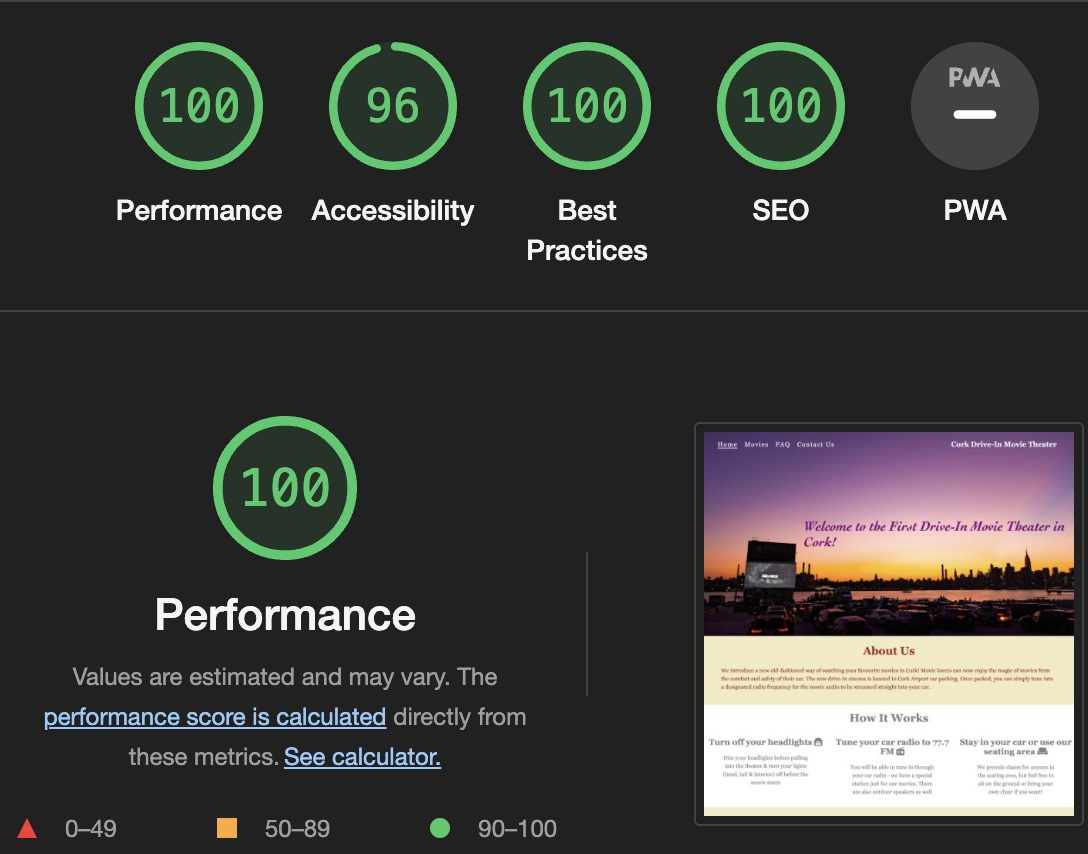
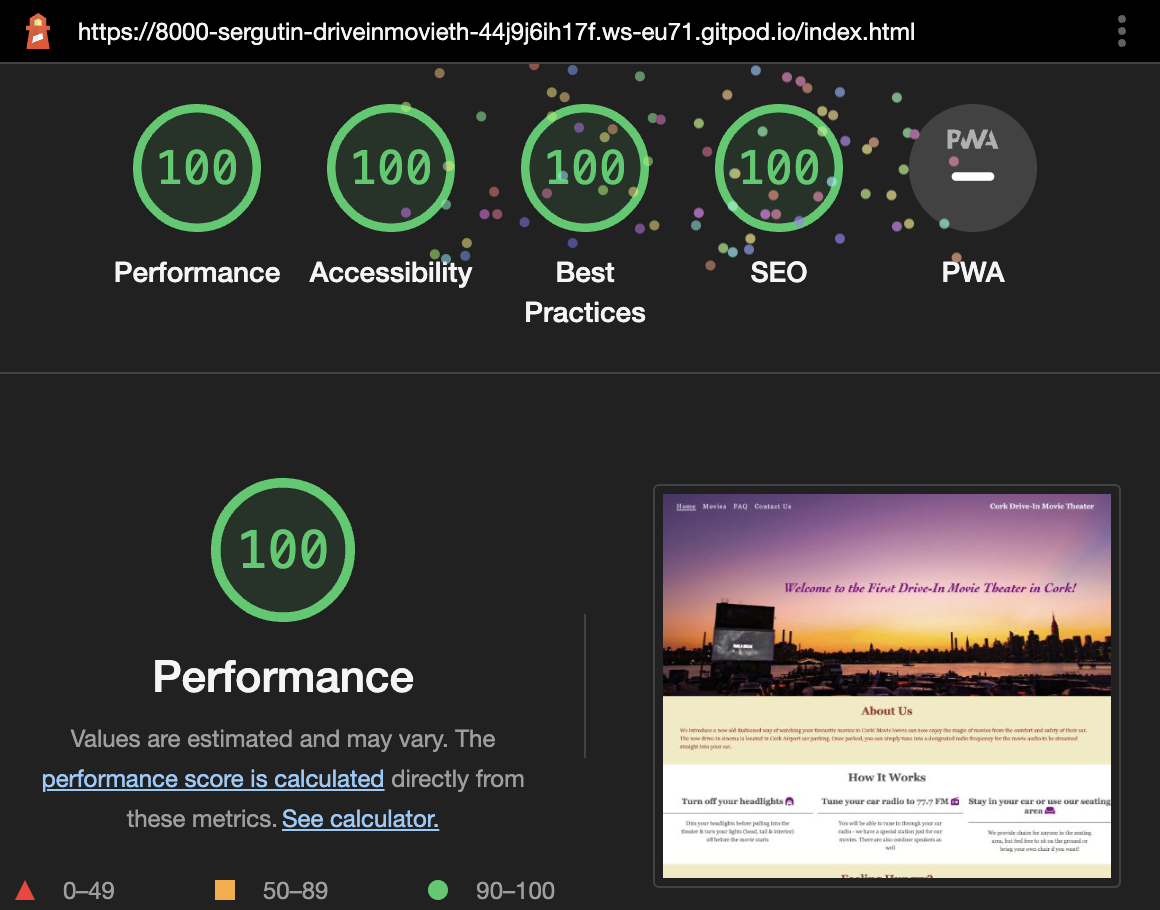
Change background movies faq contacts to improve contrast ratio

diff --git a/css/style.css b/css/style.css
@@ -53,7 +53,7 @@ p, h1 {
 #drive-in {
     height: 600px;
     width: 100%;
-    background: url('../css/images/drive-in.jpeg') no-repeat center center;
+    background: url('../css/images/drive-in.webp') no-repeat center center;
     background-size: cover;
 }
 
@@ -135,6 +135,7 @@ p, h1 {
     display: grid;
     grid-auto-flow: row;
     gap: 1em;
+    /* grid-template-columns: 25% 25% 25% 25%; */
 }
 
 @media (min-width: 50em) {
@@ -186,13 +187,13 @@ p, h1 {
 .faqbody {
     margin: 0 auto;
     margin-top: -20px !important;
-    background: url('../css/images/drive-in.jpeg');
+    background: url('../css/images/drive-in2.webp');
     background-size: cover;
-    background-color: rgba(255,255,255,0.4);
+    /* background-color: rgba(255,255,255,0.4); */
 }
 
 .moviesbody {
-    background: url('../css/images/drive-in.jpeg') no-repeat;
+    background: url('../css/images/drive-in2.webp') no-repeat;
     min-height: 100vh;
     background-size: cover;
     background-color: #d1d1d1;
@@ -200,7 +201,7 @@ p, h1 {
 }
 
 .contactsbody {
-    background: url('../css/images/drive-in.jpeg') no-repeat;
+    background: url('../css/images/drive-in2.webp') no-repeat;
     background-size: cover;
 }
 
@@ -223,7 +224,7 @@ hr {
 
 .faq, .faq2 {
     text-align: center;
-    color: #070D0D;
+    color: #f4c430;
 }
 
 .faq {
@@ -232,29 +233,29 @@ hr {
 }
 
 #faq p {
-    color: #070D0D;
+    color: #rgb(231, 188, 47);
     line-height: 1.5;
 }
 
 #faq h3 {
-    color: rgb(196, 186, 129);
+    color: #f4c430;
 }
 
 #contacts {
     text-align: center;
     margin: 0 auto;
     padding-top: 120px;
-    color: black;
+    color: white;
     line-height: 1.5;
 }
 
 #contacts h1 {
-    color: black;
+    color: white;
     font-size: 200%;
 }
 
 #contacts p {
-    color: black;
+    color: white;
 }
 
 #map {
@@ -308,14 +309,17 @@ hr {
 }
 
 #faq {
-    margin: auto 50px auto 50px;
-    background-color: rgba(251,252,248,0.8);
+    /* margin: auto 50px auto 50px; */
+    margin: auto;
+    padding-left: 50px;
+    padding-right: 50px;
+    /* background-color: rgba(251,252,248,0.8); */
 }
 
 #questions {
     text-align: center;
     color: rgb(231, 188, 47);
-    padding-top: 100px;
+    padding-top: 15px;
 }
 
 div.container {
@@ -331,11 +335,58 @@ ul.list {
 
 /* ------------------------------------ MEDIA QUERIES --------------------------------- */
 
-@media screen and (max-width:1200px) {
-    hr {
-        display: none;
+@media screen and (max-width:375px) {
+    #movie1sat h2, #movie2sat h2, #movie1mon h2, #movie2mon h2 {
+        font-size: 150%;
     }
-}
+
+    #movie2mon, #movie2sat, #movie1mon, #movie1sat {
+        background-size: 240px;
+    }
+} 
+
+@media screen and (max-width:425px) {
+    #menu {
+      margin: -55px 0 0 -20px;
+    }
+  
+    #contacts {
+      margin: 0 auto;
+      padding-top: 100px;
+    }
+  
+    #grid2 div {
+      height: 200px;
+      width: auto;
+      margin-top: 70px;
+      }
+  
+      #moviessm {
+      margin: 50px 0 0 0; 
+      padding: 0 0 10px 0;
+    }
+  }
+
+  @media screen and (max-width:768px) {
+    #grid2 div {
+        height: 400px;
+        width: auto;
+        margin-top: 70px;
+    }
+
+    #moviessm {
+        margin: 50px 0 0 0; 
+        padding: 0 0 10px 0;
+    }
+
+    #movie1sat h2, #movie2sat h2, #movie1mon h2, #movie2mon h2 {
+        font-size: 180%;
+    }
+
+    #movie2mon, #movie2sat, #movie1mon, #movie1sat {
+        background-size: 260px;
+    }
+} 
 
 @media screen and (max-width:950px) {
     #menu {
@@ -407,41 +458,43 @@ ul.list {
     }
 }
 
-@media screen and (max-width:425px) {
-  #menu {
-    margin: -55px 0 0 -20px;
-  }
-
-  #contacts {
-    margin: 0 auto;
-    padding-top: 100px;
-  }
-
-  #grid2 div {
-    height: 200px;
-    width: auto;
-    margin-top: 70px;
-    }
-
-    #moviessm {
-    margin: 50px 0 0 0; 
-    padding: 0 0 10px 0;
-}
-}
-
-@media screen and (max-width:5000px) {
+@media screen and (max-width:1024px) {
     #grid2 div {
-        height: 600px;
+        height: 400px;
         width: auto;
         margin-top: 70px;
     }
 
     #moviessm {
-        margin: 200px 0 0 0; 
+        margin: 500px 0 0 0; 
         padding: 0 0 10px 0;
     }
+
+    #movie1sat h2, #movie2sat h2, #movie1mon h2, #movie2mon h2 {
+        font-size: 135%;
+    }
+
+    #movie2mon, #movie2sat, #movie1mon, #movie1sat {
+        background-size: 200px;
+    }
+
+    .grid {
+        /* margin: 0; */
+        display: grid;
+        grid-auto-flow: row;
+        gap: 1em;
+        grid-template-columns: repeat(2, 1fr);
+        align-items: center;
+        justify-content: center;
+    }
 } 
- 
+
+@media screen and (max-width:1200px) {
+    hr {
+        display: none;
+    }
+}
+
 @media screen and (max-width:1440px) {
     #grid2 div {
         height: 400px;
@@ -464,59 +517,26 @@ ul.list {
     #moviessm {
         margin: 400px 0 0 0; 
         padding: 0 0 10px 0;
-    }
-    
+    }  
 } 
 
-@media screen and (max-width:1024px) {
+@media screen and (max-width:5000px) {
     #grid2 div {
-        height: 300px;
+        height: 600px;
         width: auto;
         margin-top: 70px;
     }
 
     #moviessm {
-        margin: 500px 0 0 0; 
+        margin: 200px 0 0 0; 
         padding: 0 0 10px 0;
     }
-
-    #movie1sat h2, #movie2sat h2, #movie1mon h2, #movie2mon h2 {
-        font-size: 135%;
-    }
-
-    #movie2mon, #movie2sat, #movie1mon, #movie1sat {
-        background-size: 200px;
-    }
-
 } 
+ 
 
-@media screen and (max-width:768px) {
-    #grid2 div {
-        height: 400px;
-        width: auto;
-        margin-top: 70px;
-    }
 
-    #moviessm {
-        margin: 50px 0 0 0; 
-        padding: 0 0 10px 0;
-    }
 
-    #movie1sat h2, #movie2sat h2, #movie1mon h2, #movie2mon h2 {
-        font-size: 180%;
-    }
 
-    #movie2mon, #movie2sat, #movie1mon, #movie1sat {
-        background-size: 260px;
-    }
-} 
 
-@media screen and (max-width:375px) {
-    #movie1sat h2, #movie2sat h2, #movie1mon h2, #movie2mon h2 {
-        font-size: 150%;
-    }
 
-    #movie2mon, #movie2sat, #movie1mon, #movie1sat {
-        background-size: 240px;
-    }
-} 
+
